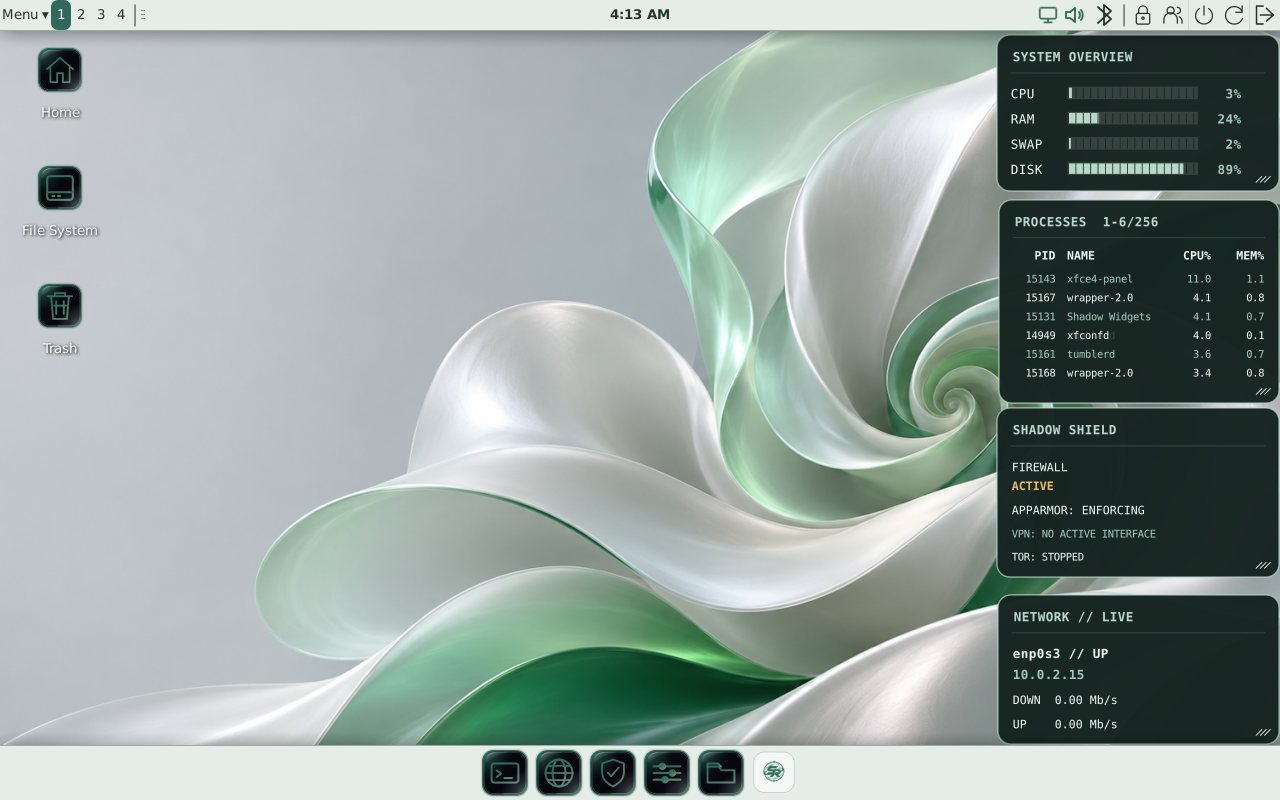
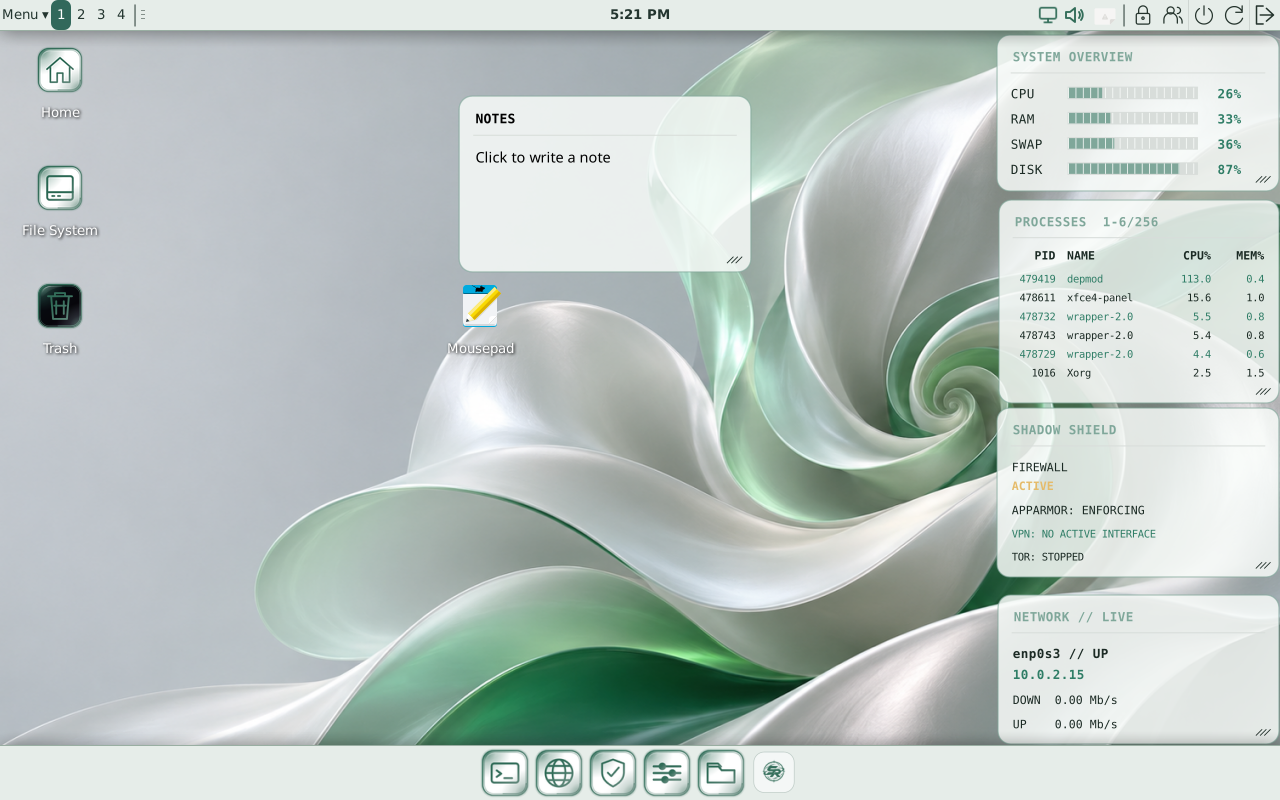
Refresh the Professional desktop screenshot
The published Professional image still showed the old dark widget cards and
black icon plates. Replace it with a current capture of the light Professional
desktop so the website and gallery match the shipped theme.

diff --git a/website/index.html b/website/index.html
@@ -249,7 +249,7 @@
 <figcaption><strong>Sculpted Silk</strong><span>Professional — Plum</span></figcaption></figure>
 </div>
 <p class="gallery-position" aria-live="polite" aria-atomic="true"></p>
-<div class="professional-showcase" hidden><h3>A quieter workspace</h3><p>Emerald, Ocean, Graphite and Plum accents pair with three sculpted abstract wallpapers. The same desktop controls and widgets use a restrained, unbranded appearance.</p><img class="screen" src="https://raw.githubusercontent.com/AstraShadowsss/ShadowRealm-OS/main/screenshots/professional.png?v=20261126" alt="Professional desktop with Satin Bloom wallpaper and rounded status widgets" loading="lazy"><img class="screen" src="https://raw.githubusercontent.com/AstraShadowsss/ShadowRealm-OS/main/screenshots/control-center-professional.png?v=20261126" alt="Control Center in the Professional desktop" loading="lazy"></div>
+<div class="professional-showcase" hidden><h3>A quieter workspace</h3><p>Emerald, Ocean, Graphite and Plum accents pair with three sculpted abstract wallpapers. The same desktop controls and widgets use a restrained, unbranded appearance.</p><img class="screen" src="https://raw.githubusercontent.com/AstraShadowsss/ShadowRealm-OS/main/screenshots/professional.png?v=20261126light" alt="Professional desktop with Satin Bloom wallpaper and rounded status widgets" loading="lazy"><img class="screen" src="https://raw.githubusercontent.com/AstraShadowsss/ShadowRealm-OS/main/screenshots/control-center-professional.png?v=20261126" alt="Control Center in the Professional desktop" loading="lazy"></div>
 <noscript><p>Scroll sideways to browse the labeled collection.</p></noscript>
 </section>
 <style>
